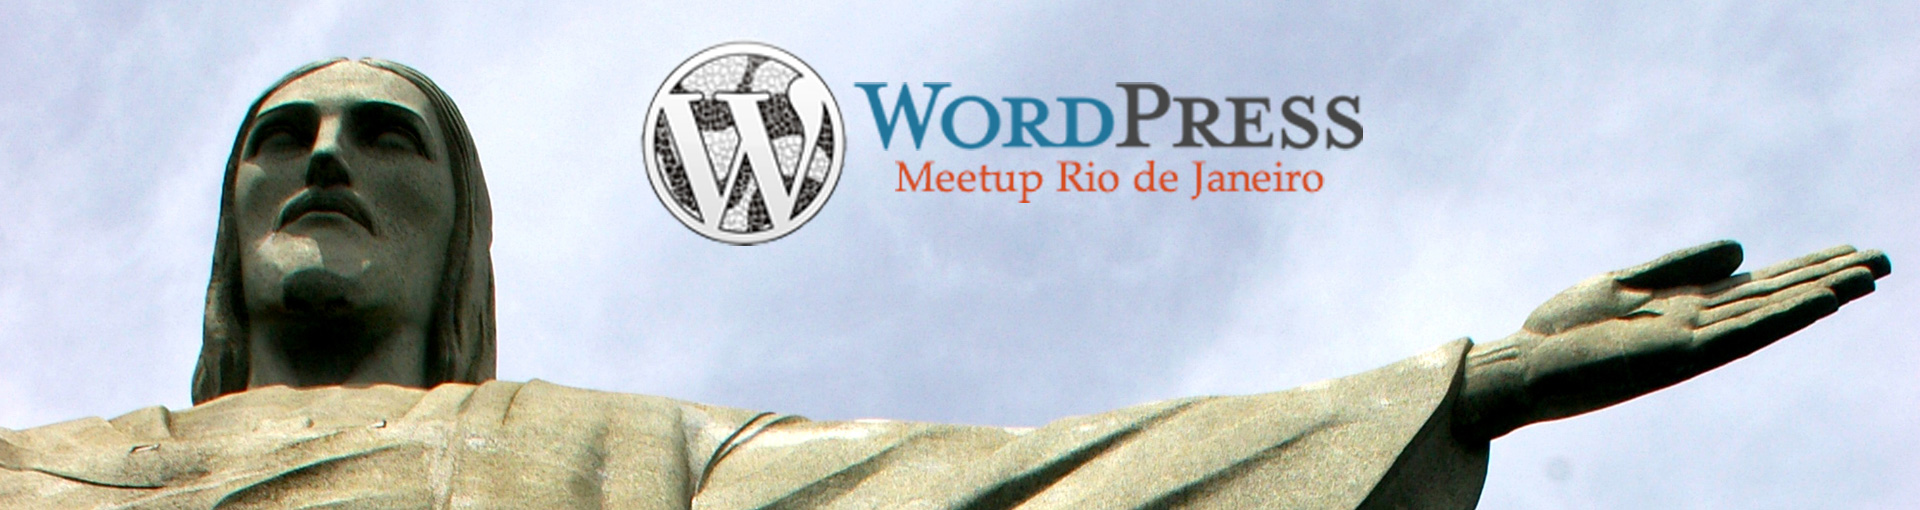
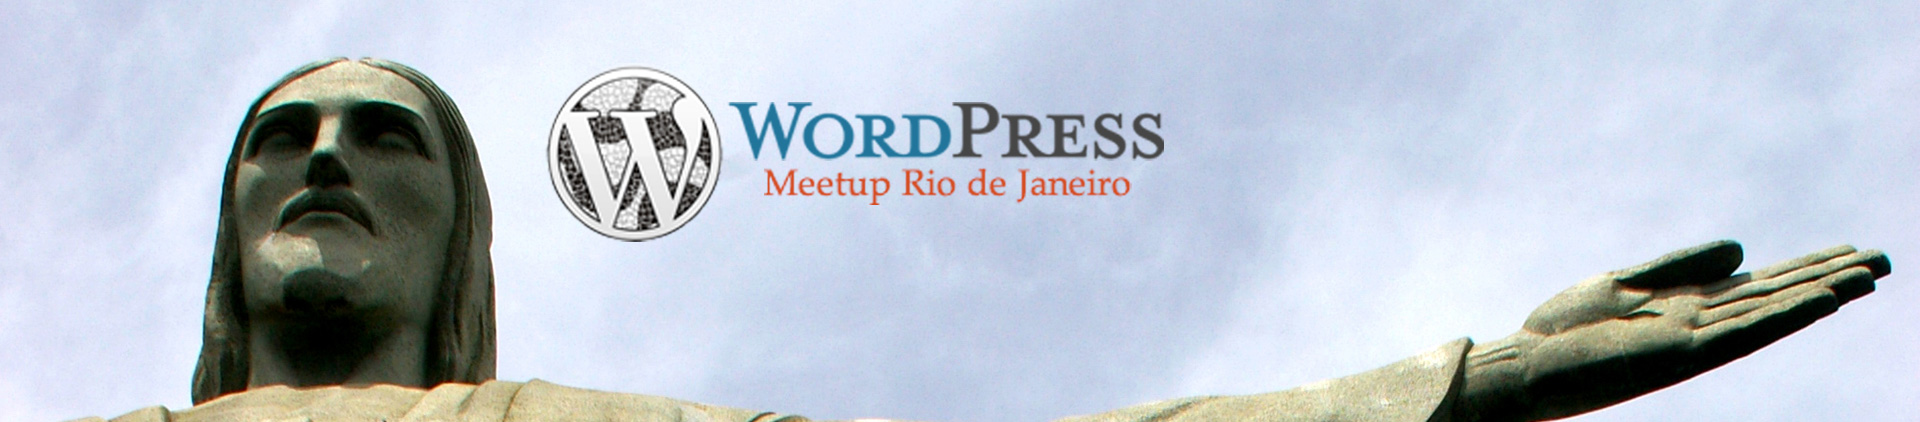
Alterado Meetup RJ

diff --git a/style.css b/style.css
@@ -121,7 +121,7 @@ i{
 }
 
 #rio{
-    height: 510px;
+    height: 422px;
     text-align: center;
 }
 
